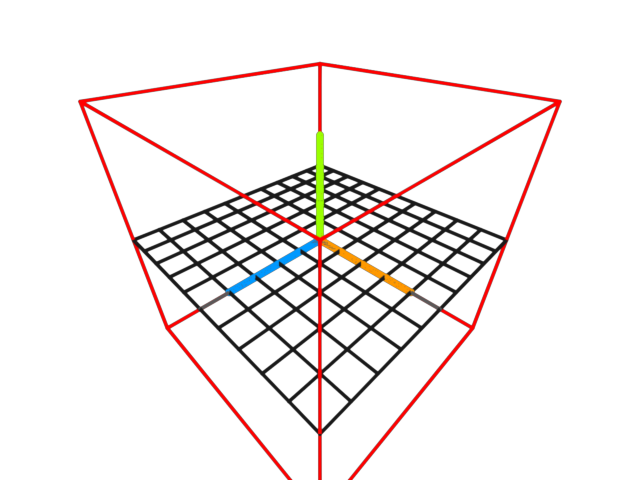
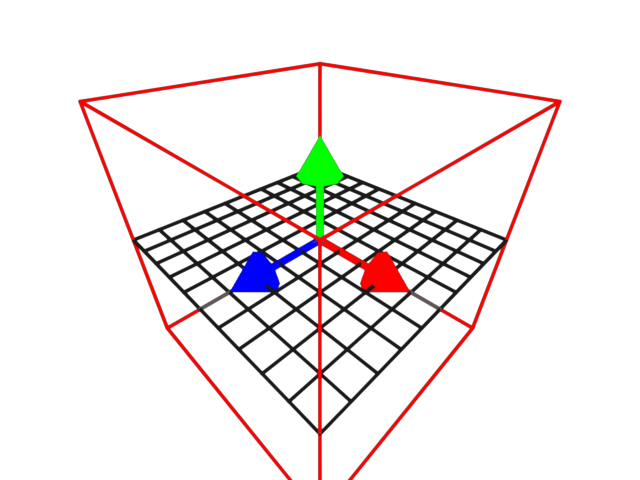
Change colors of axes helper to rgb and add arrow heads (#304)
* change colors of axes helper to rgb

* add arrow heads to axes helper

* update examples and screenshots

* update docstring for axeshelper

* compute arrow start and radius based on thickness and size automatically to maintain equilateral triangle proportions

* update ref screenshots

Changed region(s): [[0.3438, 0.2812, 0.6562, 0.625]]

diff --git a/pygfx/helpers/_axes.py b/pygfx/helpers/_axes.py
@@ -1,6 +1,14 @@
 import numpy as np
 
-from .. import Geometry, Line, LineSegmentMaterial
+from .. import (
+    cone_geometry,
+    Geometry,
+    Line,
+    LineSegmentMaterial,
+    Mesh,
+    MeshBasicMaterial,
+)
+from ..linalg import Vector3
 from ..utils import Color
 
 
@@ -9,11 +17,11 @@ class AxesHelper(Line):
 
     Parameters:
         size (float): The length of the lines (default 1).
-        thickness (float): the thickness of the lines (default 2 px).
+        thickness (float): The thickness of the lines (default 2 px).
     """
 
     def __init__(self, size=1.0, thickness=2):
-        positions = np.array(
+        line_positions = np.array(
             [
                 [0, 0, 0],
                 [1, 0, 0],
@@ -24,27 +32,53 @@ class AxesHelper(Line):
             ],
             dtype="f4",
         )
-        positions *= size
 
         colors = np.array(
             [
-                [1, 0.6, 0, 1],
-                [1, 0.6, 0, 1],  # x is orange-ish
-                [0.6, 1, 0, 1],
-                [0.6, 1, 0, 1],  # y is yellow-ish
-                [0, 0.6, 1, 1],
-                [0, 0.6, 1, 1],  # z is blue-ish
+                [1, 0, 0, 1],
+                [1, 0, 0, 1],  # x is red
+                [0, 1, 0, 1],
+                [0, 1, 0, 1],  # y is green
+                [0, 0, 1, 1],
+                [0, 0, 1, 1],  # z is blue
             ],
             dtype="f4",
         )
 
-        geometry = Geometry(positions=positions, colors=colors)
+        # the radius of the cone is the thickness, so that the arrow is twice as wide
+        # as the line it sits on.
+        # we want the arrow head to maintain the proportions of a equilateral triangle
+        # when viewed from the side, so the desired height can be computed
+        # by multiplying the radius by sqrt(3)
+        arrow_size = np.sqrt(3) * thickness
+        cone = cone_geometry(radius=thickness, height=arrow_size)
+
+        line_size = np.max([0, size - arrow_size])  # ensure >= 0
+        line_positions *= line_size
+
+        geometry = Geometry(positions=line_positions, colors=colors)
         material = LineSegmentMaterial(vertex_colors=True, thickness=thickness, aa=True)
 
         super().__init__(geometry, material)
 
+        for pos, color in zip(line_positions[1::2], colors[1::2]):
+            material = MeshBasicMaterial(color=color)
+            arrow_head = Mesh(cone, material)
+            arrow_head.position = Vector3(*pos)
+            # offset by half of height since the cones
+            # are centered around the origin
+            arrow_head.position.add_scaled_vector(
+                Vector3(*pos).normalize(), arrow_size / 2
+            )
+            arrow_head.rotation.set_from_unit_vectors(
+                Vector3(0, 0, 1),
+                Vector3(*pos).normalize(),
+            )
+            self.add(arrow_head)
+
     def set_colors(self, x, y, z):
         x, y, z = Color(x), Color(y), Color(z)
+        # update lines
         self._geometry.colors.data[0] = x
         self._geometry.colors.data[1] = x
         self._geometry.colors.data[2] = y
@@ -52,3 +86,6 @@ class AxesHelper(Line):
         self._geometry.colors.data[4] = z
         self._geometry.colors.data[5] = z
         self._geometry.colors.update_range(0, self._geometry.colors.nitems)
+        # update arrow heads
+        for arrow, color in zip(self.children, [x, y, z]):
+            arrow.material.color = color

diff --git a/examples/validate_helpers2.py b/examples/validate_helpers2.py
@@ -1,8 +1,8 @@
 """
 Example showing the axes and grid helpers with a perspective camera.
 
-* The grid spans the x-z plane (orange and blue axis).
-* The yellow axis (y) stick up from the plane.
+* The grid spans the x-z plane (red and blue axis).
+* The green axis (y) stick up from the plane.
 * The red box fits snugly around the grid.
 """
 # test_example = true

diff --git a/examples/validate_helpers1.py b/examples/validate_helpers1.py
@@ -2,8 +2,8 @@
 Example showing the axes helper.
 
 * The axes must be centered in the middle.
-* The orange axes (x) must be to the right.
-* The yellow axes (y) must be to the top.
+* The red axes (x) must be to the right.
+* The green axes (y) must be to the top.
 * The blue axes (z) is not visible.
 """
 # test_example = true
